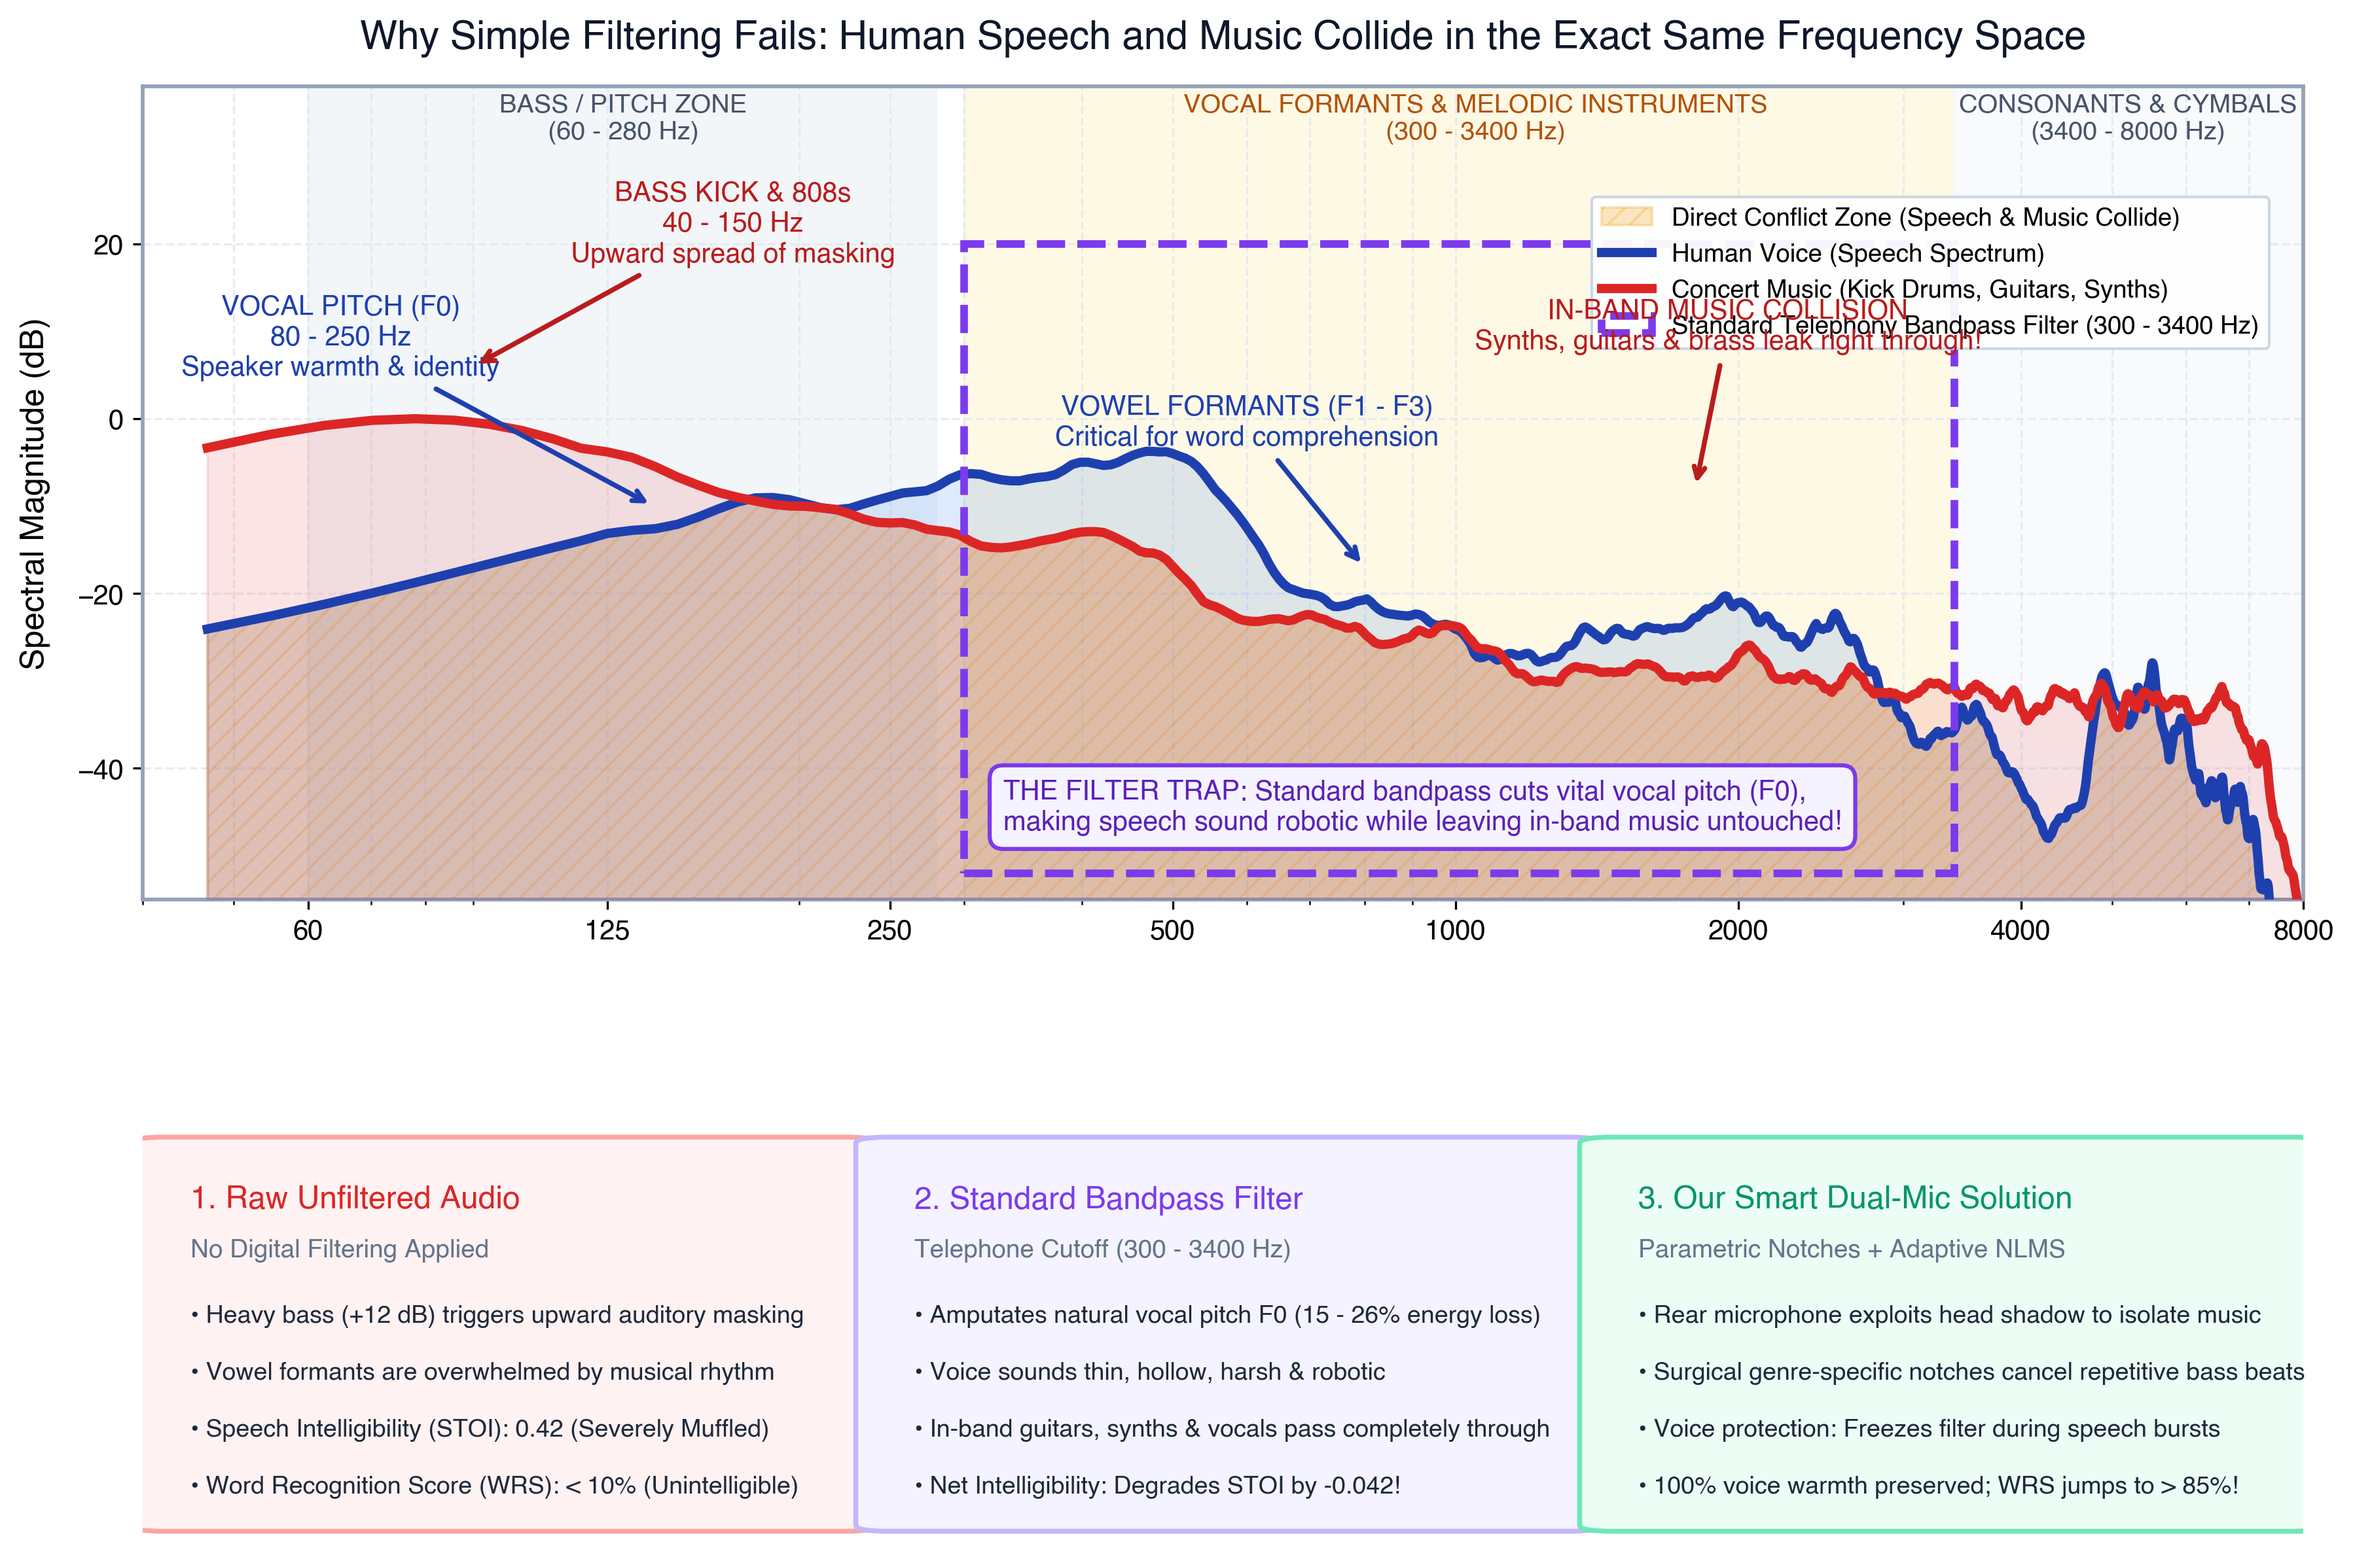
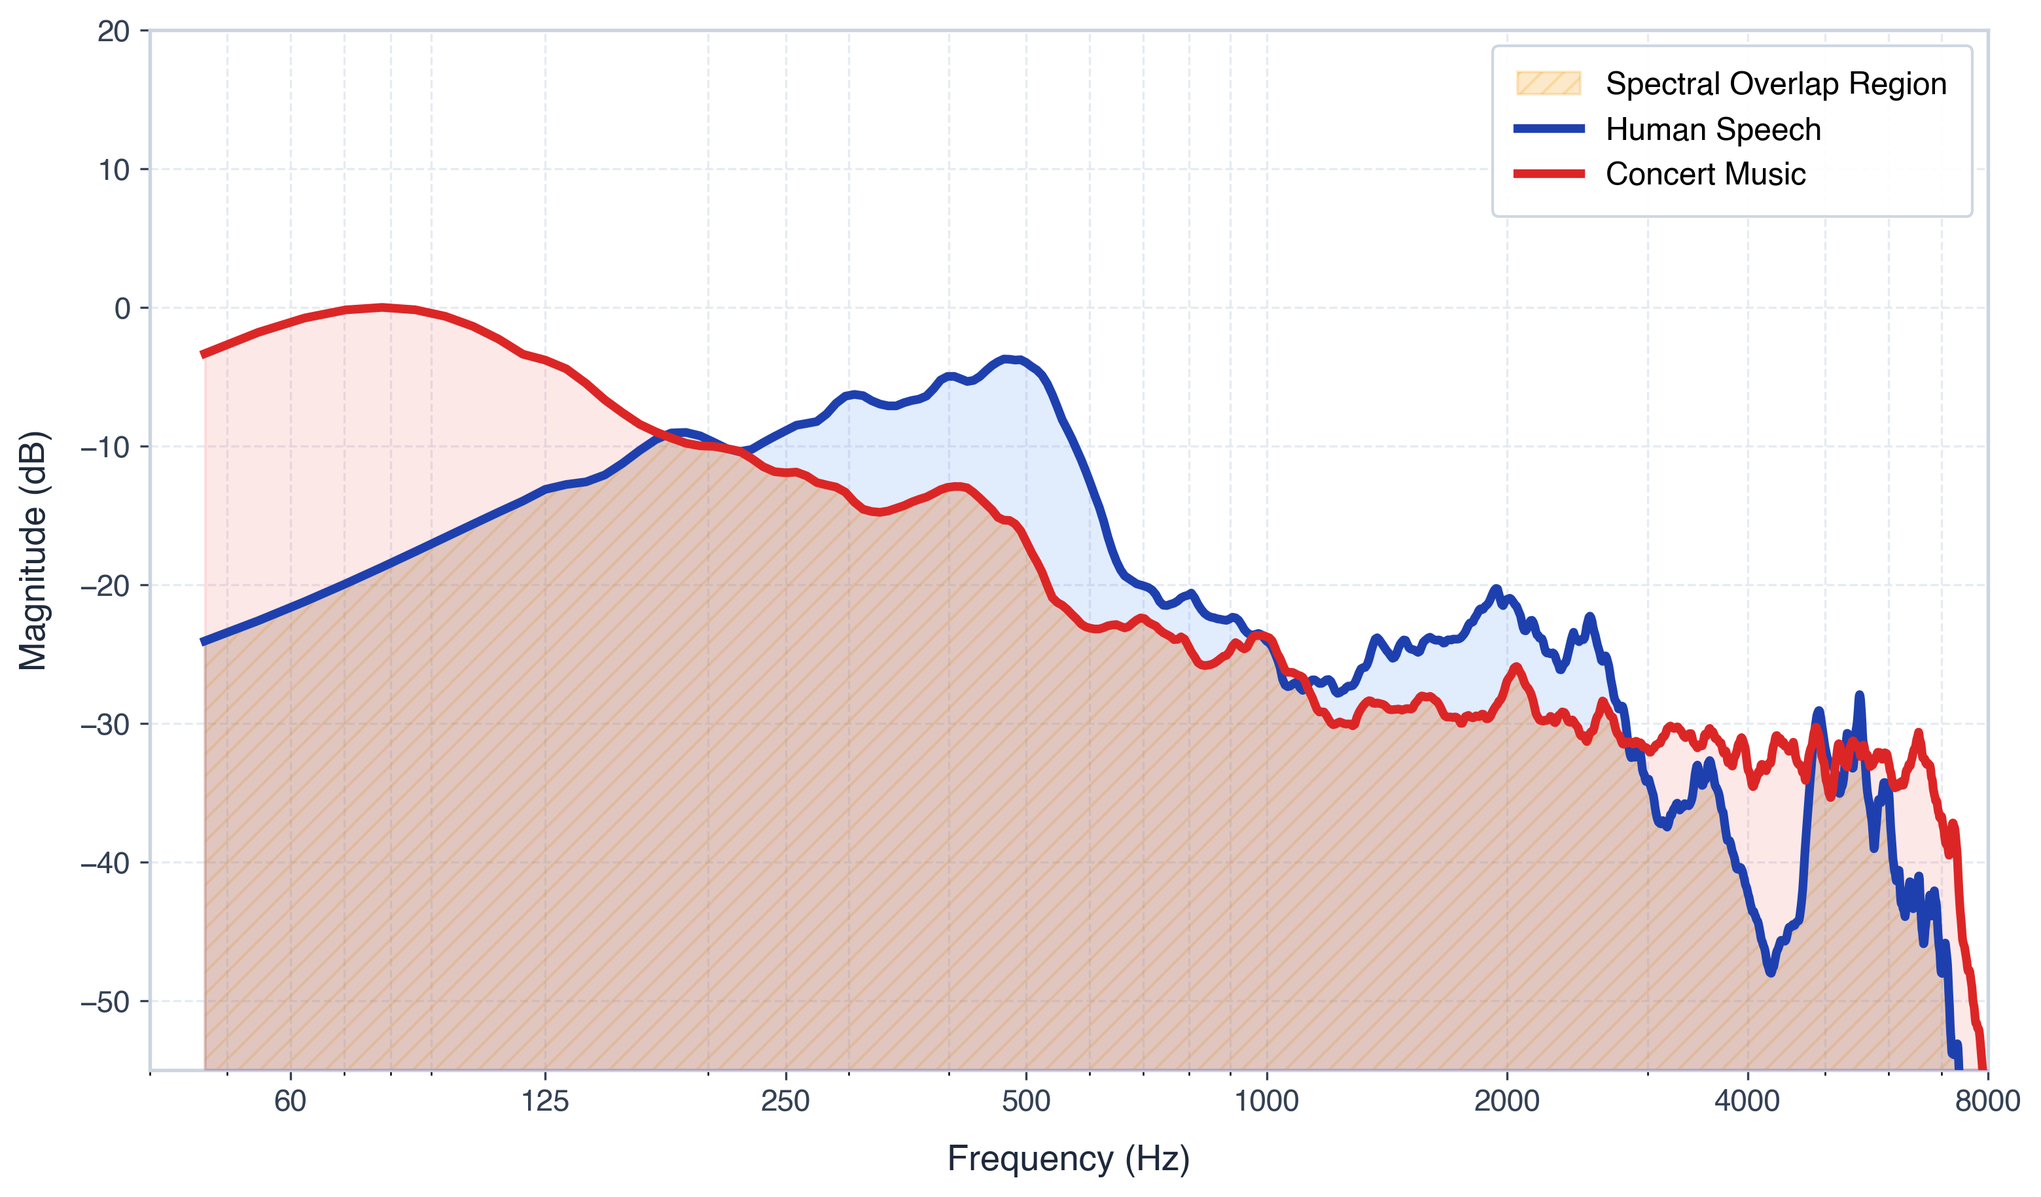
style(figures): simplify spectral overlap figure to pure curves and legend

diff --git a/scripts/plot_spectral_overlap_difficulty.py b/scripts/plot_spectral_overlap_difficulty.py
@@ -2,9 +2,9 @@
 """
 plot_spectral_overlap_difficulty.py
 
-Generates a publication-quality, open-day presentation figure showing the
-frequency-domain spectral overlap between human speech and concert music.
-Highlights why traditional static filtering fails and why adaptive filtering is necessary.
+Generates a clean, minimalist scientific figure showing the frequency-domain
+spectral curves of human speech and concert music, with no text boxes or annotations,
+keeping strictly the curves, axes, and legend.
 """
 
 import os
@@ -13,7 +13,6 @@ import numpy as np
 import soundfile as sf
 import scipy.signal as signal
 import matplotlib.pyplot as plt
-from matplotlib.patches import Rectangle, FancyBboxPatch
 
 # Set directory paths
 BASE_DIR = os.path.dirname(os.path.dirname(os.path.abspath(__file__)))
@@ -52,7 +51,7 @@ psd_sp_db -= np.max(psd_sp_db)
 psd_mu_db -= np.max(psd_mu_db)
 psd_mu_db += 6.0  # Music is louder in bass in concert soundscapes
 
-# Apply Savitzky-Golay smoothing for poster legibility
+# Apply Savitzky-Golay smoothing for clean, smooth curves
 smooth_sp = signal.savgol_filter(psd_sp_db, window_length=31, polyorder=3)
 smooth_mu = signal.savgol_filter(psd_mu_db, window_length=31, polyorder=3)
 
@@ -63,165 +62,50 @@ sp_plot = smooth_sp[idx_valid]
 mu_plot = smooth_mu[idx_valid]
 
 # -----------------------------------------------------------------------------
-# PLOT CONFIGURATION
+# MINIMALIST PLOT (Only Curves and Legend)
 # -----------------------------------------------------------------------------
 plt.rcParams['font.sans-serif'] = 'Helvetica, Arial, DejaVu Sans, sans-serif'
 plt.rcParams['font.family'] = 'sans-serif'
-plt.rcParams['axes.edgecolor'] = '#94A3B8'
-plt.rcParams['axes.linewidth'] = 1.4
+plt.rcParams['axes.edgecolor'] = '#CBD5E1'
+plt.rcParams['axes.linewidth'] = 1.3
 
-fig = plt.figure(figsize=(14.2, 9.6), dpi=300)
-gs = fig.add_gridspec(2, 1, height_ratios=[2.3, 1.15], hspace=0.38)
+fig, ax = plt.subplots(figsize=(10.5, 6.2), dpi=300)
 
-# =============================================================================
-# PANEL 1: Frequency Domain Spectral Collision
-# =============================================================================
-ax1 = fig.add_subplot(gs[0])
-
-# Background shading for functional speech bands
-ax1.axvspan(60, 280, color='#F1F5F9', alpha=0.9, zorder=1)
-ax1.axvspan(300, 3400, color='#FEF3C7', alpha=0.45, zorder=1)
-ax1.axvspan(3400, 8000, color='#F8FAFC', alpha=0.9, zorder=1)
-
-# Highlight the Overlap / Conflict Zone
+# Overlap region shading
 overlap_curve = np.minimum(sp_plot, mu_plot)
-ax1.fill_between(f_plot, -55, overlap_curve, color='#F59E0B', alpha=0.25, hatch='///',
-                 label='Direct Conflict Zone (Speech & Music Collide)', zorder=2)
+ax.fill_between(f_plot, -55, overlap_curve, color='#F59E0B', alpha=0.22, hatch='///',
+                label='Spectral Overlap Region', zorder=2)
 
-# Speech Spectrum
-ax1.plot(f_plot, sp_plot, color='#1E40AF', linewidth=3.4, label='Human Voice (Speech Spectrum)', zorder=4)
-ax1.fill_between(f_plot, -55, sp_plot, color='#3B82F6', alpha=0.16, zorder=3)
+# Human Speech Curve
+ax.plot(f_plot, sp_plot, color='#1E40AF', linewidth=3.2, label='Human Speech', zorder=4)
+ax.fill_between(f_plot, -55, sp_plot, color='#3B82F6', alpha=0.15, zorder=3)
 
-# Music Spectrum
-ax1.plot(f_plot, mu_plot, color='#DC2626', linewidth=3.4, label='Concert Music (Kick Drums, Guitars, Synths)', zorder=4)
-ax1.fill_between(f_plot, -55, mu_plot, color='#EF4444', alpha=0.14, zorder=3)
+# Concert Music Curve
+ax.plot(f_plot, mu_plot, color='#DC2626', linewidth=3.2, label='Concert Music', zorder=4)
+ax.fill_between(f_plot, -55, mu_plot, color='#EF4444', alpha=0.12, zorder=3)
 
-# Traditional Bandpass Filter Window (300 Hz - 3400 Hz)
-bp_box = Rectangle((300, -52), 3100, 72, linewidth=2.8, edgecolor='#7C3AED',
-                   facecolor='none', linestyle='--', zorder=5, label='Standard Telephony Bandpass Filter (300 - 3400 Hz)')
-ax1.add_patch(bp_box)
+# Axis configuration
+ax.set_xscale('log')
+ax.set_xlim(40, 8000)
+ax.set_ylim(-55, 20)
+ax.set_xticks([60, 125, 250, 500, 1000, 2000, 4000, 8000])
+ax.get_xaxis().set_major_formatter(plt.ScalarFormatter())
 
-# Band region banner labels along top
-ax1.text(130, 32, 'BASS / PITCH ZONE\n(60 - 280 Hz)', fontsize=9.5, fontweight='bold', color='#475569', ha='center', zorder=6)
-ax1.text(1050, 32, 'VOCAL FORMANTS & MELODIC INSTRUMENTS\n(300 - 3400 Hz)', fontsize=9.5, fontweight='bold', color='#B45309', ha='center', zorder=6)
-ax1.text(5200, 32, 'CONSONANTS & CYMBALS\n(3400 - 8000 Hz)', fontsize=9.5, fontweight='bold', color='#475569', ha='center', zorder=6)
+ax.set_xlabel('Frequency (Hz)', fontsize=13, fontweight='bold', labelpad=10, color='#1E293B')
+ax.set_ylabel('Magnitude (dB)', fontsize=13, fontweight='bold', labelpad=10, color='#1E293B')
 
-# Annotation: Vocal Pitch F0
-ax1.annotate('VOCAL PITCH (F0)\n80 - 250 Hz\nSpeaker warmth & identity',
-             xy=(140, -10), xytext=(65, 5),
-             fontsize=10, fontweight='bold', color='#1E40AF', ha='center',
-             arrowprops=dict(arrowstyle='->', color='#1E40AF', lw=1.8), zorder=6)
+ax.tick_params(axis='both', which='major', labelsize=11, colors='#334155')
+ax.grid(True, which='both', linestyle='--', linewidth=0.8, color='#E2E8F0', alpha=0.85)
 
-# Annotation: Heavy Bass Kick
-ax1.annotate('BASS KICK & 808s\n40 - 150 Hz\nUpward spread of masking',
-             xy=(90, 6), xytext=(170, 18),
-             fontsize=10, fontweight='bold', color='#B91C1C', ha='center',
-             arrowprops=dict(arrowstyle='->', color='#B91C1C', lw=1.8), zorder=6)
+# Clean, professional legend
+ax.legend(loc='upper right', fontsize=11.5, framealpha=0.95, edgecolor='#CBD5E1', facecolor='#FFFFFF', borderpad=0.8)
 
-# Annotation: Vowel Formants
-ax1.annotate('VOWEL FORMANTS (F1 - F3)\nCritical for word comprehension',
-             xy=(800, -17), xytext=(600, -3),
-             fontsize=10, fontweight='bold', color='#1E40AF', ha='center',
-             arrowprops=dict(arrowstyle='->', color='#1E40AF', lw=1.8), zorder=6)
-
-# Annotation: In-Band Music Collision
-ax1.annotate('IN-BAND MUSIC COLLISION\nSynths, guitars & brass leak right through!',
-             xy=(1800, -8), xytext=(1950, 8),
-             fontsize=10, fontweight='bold', color='#B91C1C', ha='center',
-             arrowprops=dict(arrowstyle='->', color='#B91C1C', lw=1.8), zorder=6)
-
-# Annotation: Standard Filter Failure Box
-ax1.text(330, -47, 'THE FILTER TRAP: Standard bandpass cuts vital vocal pitch (F0),\nmaking speech sound robotic while leaving in-band music untouched!',
-         fontsize=10, fontweight='bold', color='#5B21B6',
-         bbox=dict(boxstyle='round,pad=0.5', facecolor='#F5F3FF', edgecolor='#7C3AED', lw=1.5), zorder=7)
-
-# Formatting Panel 1
-ax1.set_xscale('log')
-ax1.set_xlim(40, 8000)
-ax1.set_ylim(-55, 38)
-ax1.set_xticks([60, 125, 250, 500, 1000, 2000, 4000, 8000])
-ax1.get_xaxis().set_major_formatter(plt.ScalarFormatter())
-ax1.set_ylabel('Spectral Magnitude (dB)', fontsize=12, fontweight='bold', labelpad=10)
-ax1.set_title('Why Simple Filtering Fails: Human Speech and Music Collide in the Exact Same Frequency Space',
-              fontsize=14.5, fontweight='bold', pad=14, color='#0F172A')
-
-ax1.grid(True, which='both', linestyle='--', linewidth=0.8, color='#E2E8F0', alpha=0.8)
-ax1.legend(loc='upper right', bbox_to_anchor=(0.99, 0.88), fontsize=9.2, framealpha=0.95, edgecolor='#CBD5E1')
-
-# =============================================================================
-# PANEL 2: Filtering Trade-Off Comparison (3 Clean Separated Cards)
-# =============================================================================
-ax2 = fig.add_subplot(gs[1])
-ax2.axis('off')
-
-cards = [
-    {
-        'title': '1. Raw Unfiltered Audio',
-        'subtitle': 'No Digital Filtering Applied',
-        'color': '#DC2626',
-        'bg': '#FEF2F2',
-        'border': '#FCA5A5',
-        'points': [
-            '• Heavy bass (+12 dB) triggers upward auditory masking',
-            '• Vowel formants are overwhelmed by musical rhythm',
-            '• Speech Intelligibility (STOI): 0.42 (Severely Muffled)',
-            '• Word Recognition Score (WRS): < 10% (Unintelligible)'
-        ]
-    },
-    {
-        'title': '2. Standard Bandpass Filter',
-        'subtitle': 'Telephone Cutoff (300 - 3400 Hz)',
-        'color': '#7C3AED',
-        'bg': '#F5F3FF',
-        'border': '#C4B5FD',
-        'points': [
-            '• Amputates natural vocal pitch F0 (15 - 26% energy loss)',
-            '• Voice sounds thin, hollow, harsh & robotic',
-            '• In-band guitars, synths & vocals pass completely through',
-            '• Net Intelligibility: Degrades STOI by -0.042!'
-        ]
-    },
-    {
-        'title': '3. Our Smart Dual-Mic Solution',
-        'subtitle': 'Parametric Notches + Adaptive NLMS',
-        'color': '#059669',
-        'bg': '#ECFDF5',
-        'border': '#6EE7B7',
-        'points': [
-            '• Rear microphone exploits head shadow to isolate music',
-            '• Surgical genre-specific notches cancel repetitive bass beats',
-            '• Voice protection: Freezes filter during speech bursts',
-            '• 100% voice warmth preserved; WRS jumps to > 85%!'
-        ]
-    }
-]
-
-card_width = 0.315
-card_height = 0.94
-y_pos = 0.03
-
-for i, card in enumerate(cards):
-    x_pos = 0.01 + i * 0.335
-    # Bounding card box
-    bbox = FancyBboxPatch((x_pos, y_pos), card_width, card_height,
-                          boxstyle='round,pad=0.015', facecolor=card['bg'],
-                          edgecolor=card['border'], linewidth=1.8, transform=ax2.transAxes)
-    ax2.add_patch(bbox)
-    
-    # Text inside card
-    ax2.text(x_pos + 0.012, y_pos + card_height - 0.16, card['title'],
-             fontsize=11.5, fontweight='bold', color=card['color'], transform=ax2.transAxes)
-    ax2.text(x_pos + 0.012, y_pos + card_height - 0.28, card['subtitle'],
-             fontsize=9.3, fontstyle='italic', color='#64748B', transform=ax2.transAxes)
-    
-    for p_idx, pt in enumerate(card['points']):
-        ax2.text(x_pos + 0.012, y_pos + card_height - 0.44 - p_idx * 0.14, pt,
-                 fontsize=9.0, color='#1E293B', transform=ax2.transAxes)
+plt.tight_layout()
 
 # Save figures
 out_path_main = os.path.join(FIG_DIR, "spectral_overlap_speech_vs_music.png")
 plt.savefig(out_path_main, dpi=300, bbox_inches='tight')
-print(f"✓ Saved polished high-res poster figure to: {out_path_main}")
+print(f"✓ Saved clean minimalist poster figure to: {out_path_main}")
 
 # Copy to brain artifact directory
 shutil.copy2(out_path_main, os.path.join(ARTIFACTS_FIG_DIR, "spectral_overlap_speech_vs_music.png"))
